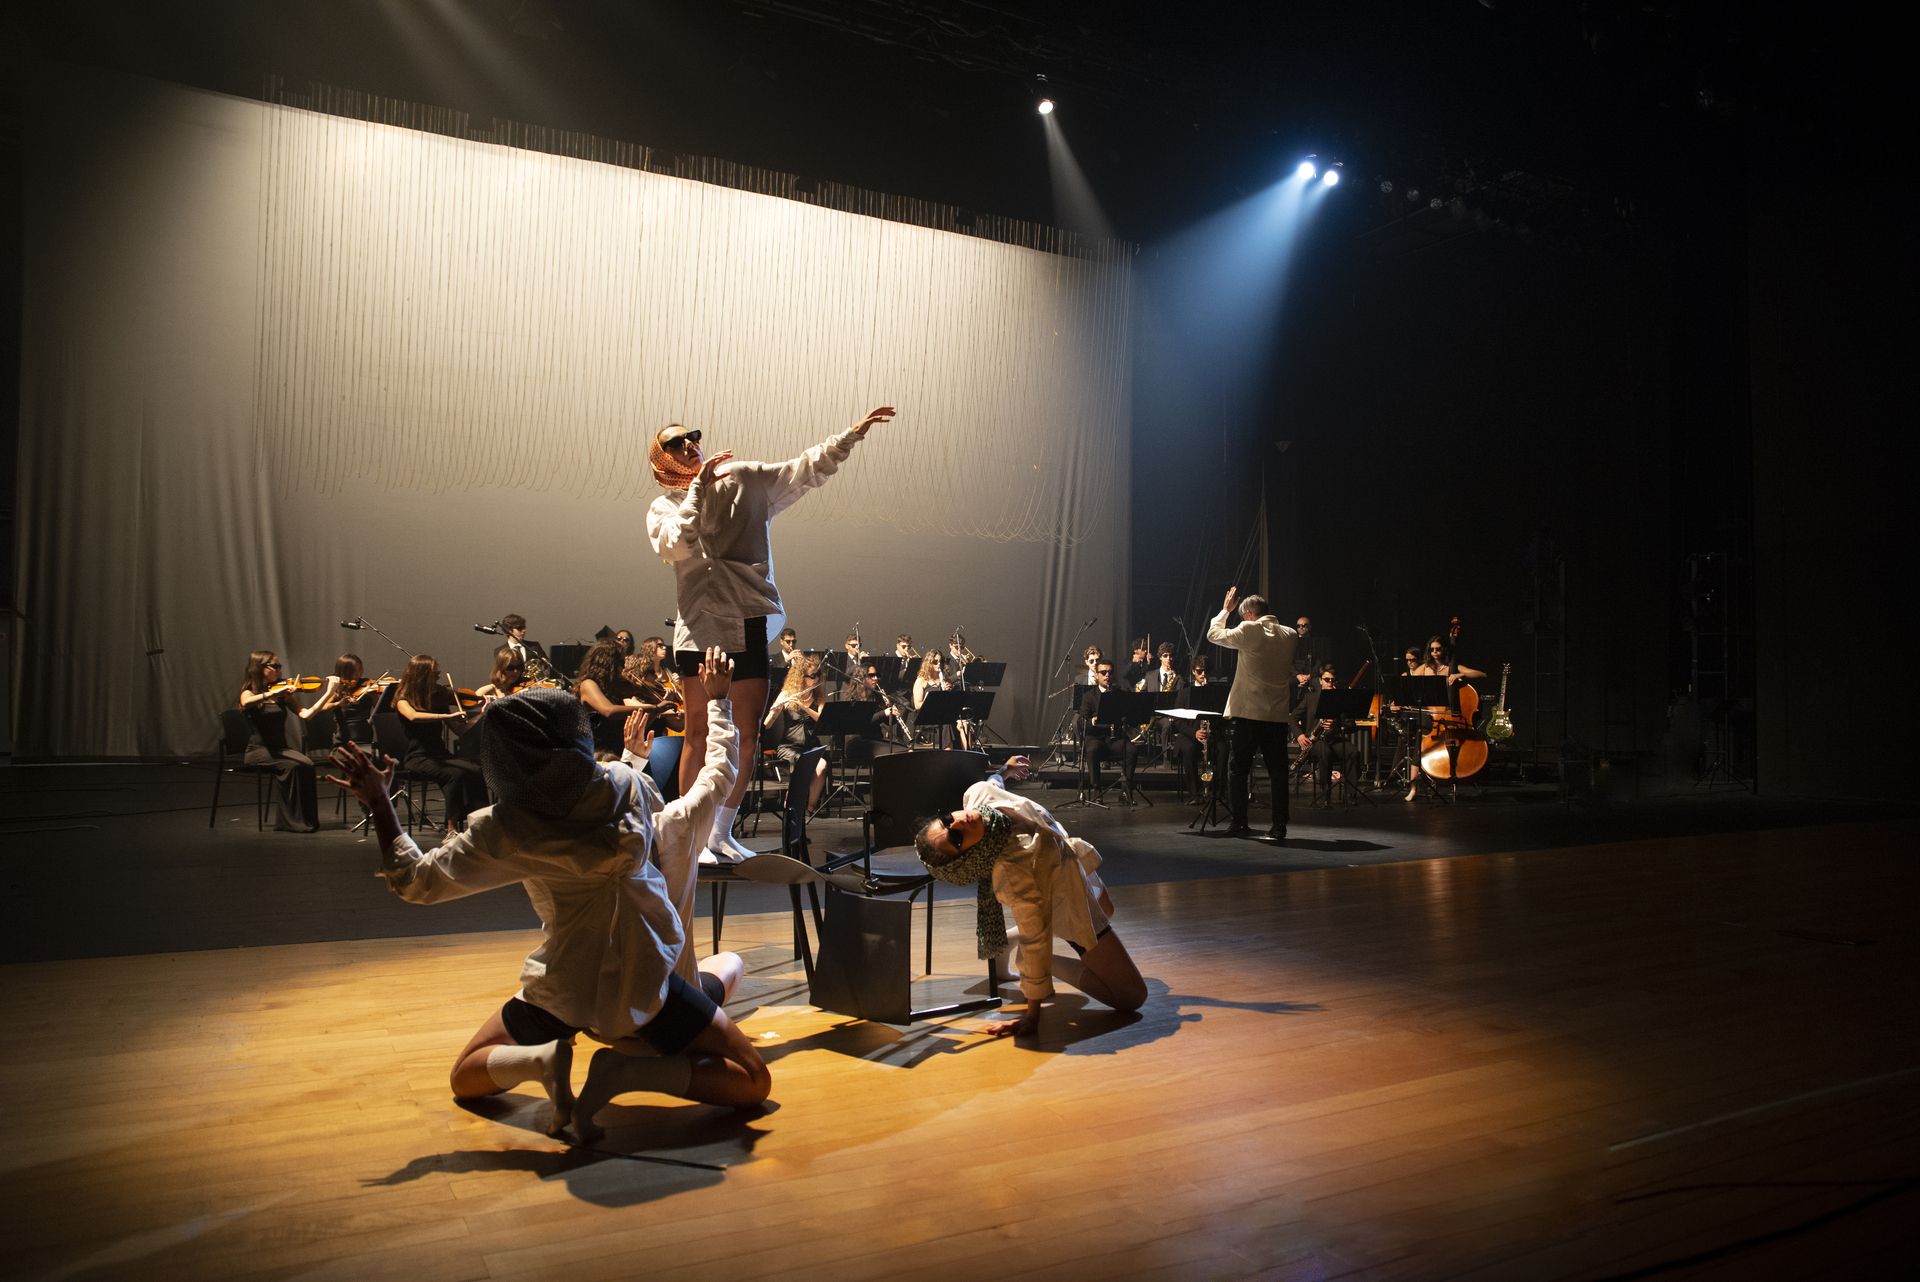
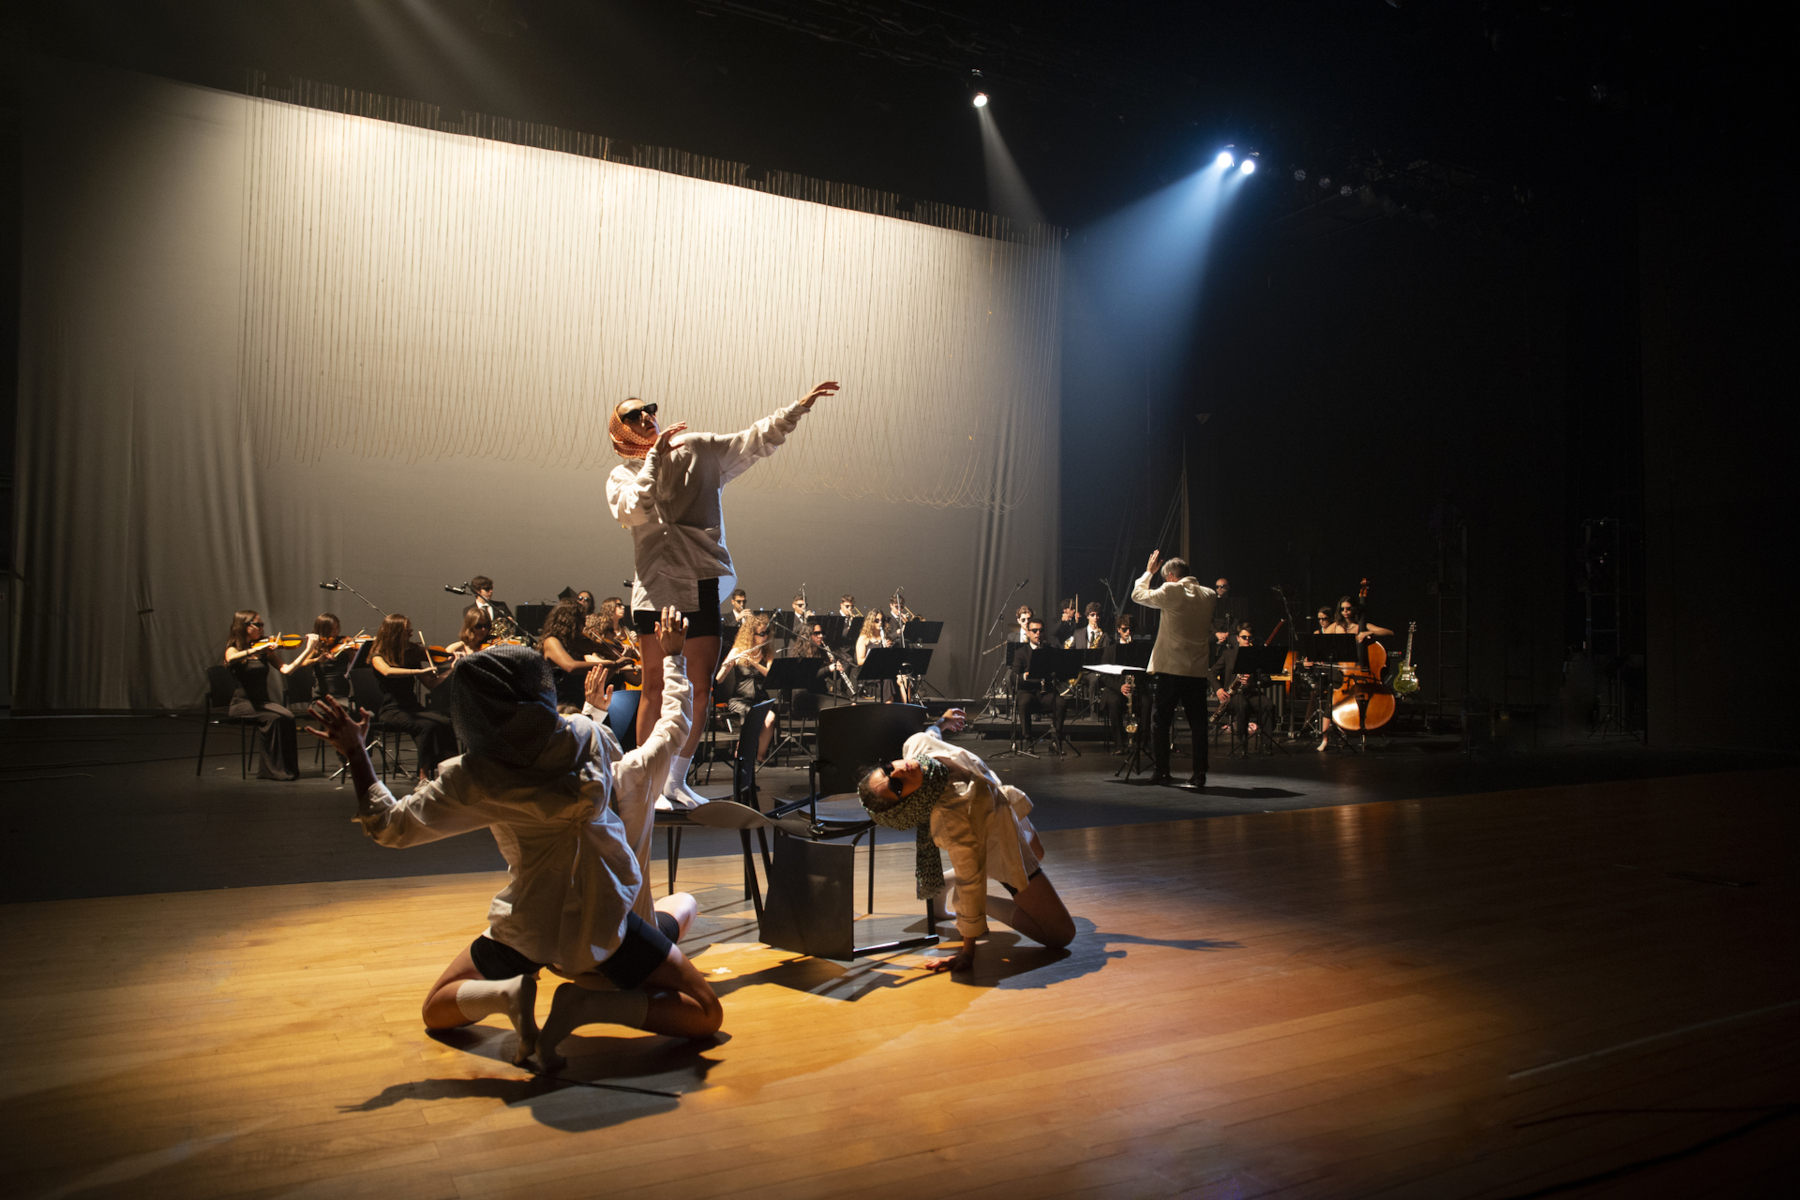
update cassandra project

diff --git a/index.html b/index.html
@@ -244,21 +244,19 @@
                 <strong>Costumes:</strong> Jordann Santos
                 <strong>Production:</strong> BCN e Liliana Claro
                 <strong>Photography:</strong> Miguel Refresco
-                <strong>Support and co-production:</strong> Câmara Municipal de Santa Maria da Feira e Cineteatro António Lamoso
-                
-                More pictures soon...`,
+                <strong>Support and co-production:</strong> Câmara Municipal de Santa Maria da Feira e Cineteatro António Lamoso`,
                 images: [
-                    // { src: 'img/cassandra/cassandra3_10_103.jpg', title: '© Miguel Refresco' },
-                    { src: 'img/cassandra/cassandra-temp.jpg', title: 'End of the show.' },
-                    //{ src: 'img/cassandra/cassandra3_10_129.jpg', title: '© Miguel Refresco' },
-                    //{ src: 'img/cassandra/cassandra3_10_130.jpg', title: '© Miguel Refresco' },
-                    //{ src: 'img/cassandra/cassandra3_10_131.jpg', title: '© Miguel Refresco' },
-                    //{ src: 'img/cassandra/cassandra3_10_132.jpg', title: '© Miguel Refresco' },
-                    //{ src: 'img/cassandra/cassandra3_10_134.jpg', title: '© Miguel Refresco' },
-                    //{ src: 'img/cassandra/cassandra3_10_135.jpg', title: '© Miguel Refresco' },
-                    //{ src: 'img/cassandra/cassandra3_10_136.jpg', title: '© Miguel Refresco' },
-                    //{ src: 'img/cassandra/cassandra3_10_157.jpg', title: '© Miguel Refresco' },
-                    //{ src: 'img/cassandra/cassandra3_10_158.jpg', title: '© Miguel Refresco' },
+                    { src: 'img/cassandra/000A9519.jpg', title: '© Miguel Refresco' },
+                    { src: 'img/cassandra/000A9783.jpg', title: '© Miguel Refresco' },
+                    { src: 'img/cassandra/000A9794.jpg', title: '© Miguel Refresco' },
+                    { src: 'img/cassandra/000A9796.jpg', title: '© Miguel Refresco' },
+                    { src: 'img/cassandra/000A9802.jpg', title: '© Miguel Refresco' },
+                    { src: 'img/cassandra/000A9813.jpg', title: '© Miguel Refresco' },
+                    { src: 'img/cassandra/000A9818.jpg', title: '© Miguel Refresco' },
+                    { src: 'img/cassandra/000A9820.jpg', title: '© Miguel Refresco' },
+                    { src: 'img/cassandra/000A9831.jpg', title: '© Miguel Refresco' },
+                    { src: 'img/cassandra/000A9842.jpg', title: '© Miguel Refresco' },
+                    { src: 'img/cassandra/000A9849.jpg', title: '© Miguel Refresco' }
                 ]
             },
             'alba': {
@@ -291,8 +289,7 @@
                     { src: 'img/alba/2-DSC_5030.jpg', title: '© Alexandre Costa' },
                     { src: 'img/alba/2-DSC_5265.jpg', title: '© Alexandre Costa' },
                     { src: 'img/alba/2-DSC_5289.jpg', title: '© Alexandre Costa' },
-                    { src: 'img/alba/3-DSC_4867.jpg', title: '© Alexandre Costa' },
-                    { src: 'img/alba/3-DSC_4893.jpg', title: '© Alexandre Costa' },
+                    { src: 'img/alba/3-DSC_4867-DSC_4893.png', title: '© Alexandre Costa' },
                     { src: 'img/alba/3-DSC_4906.jpg', title: '© Alexandre Costa' }
                 ]
             },
